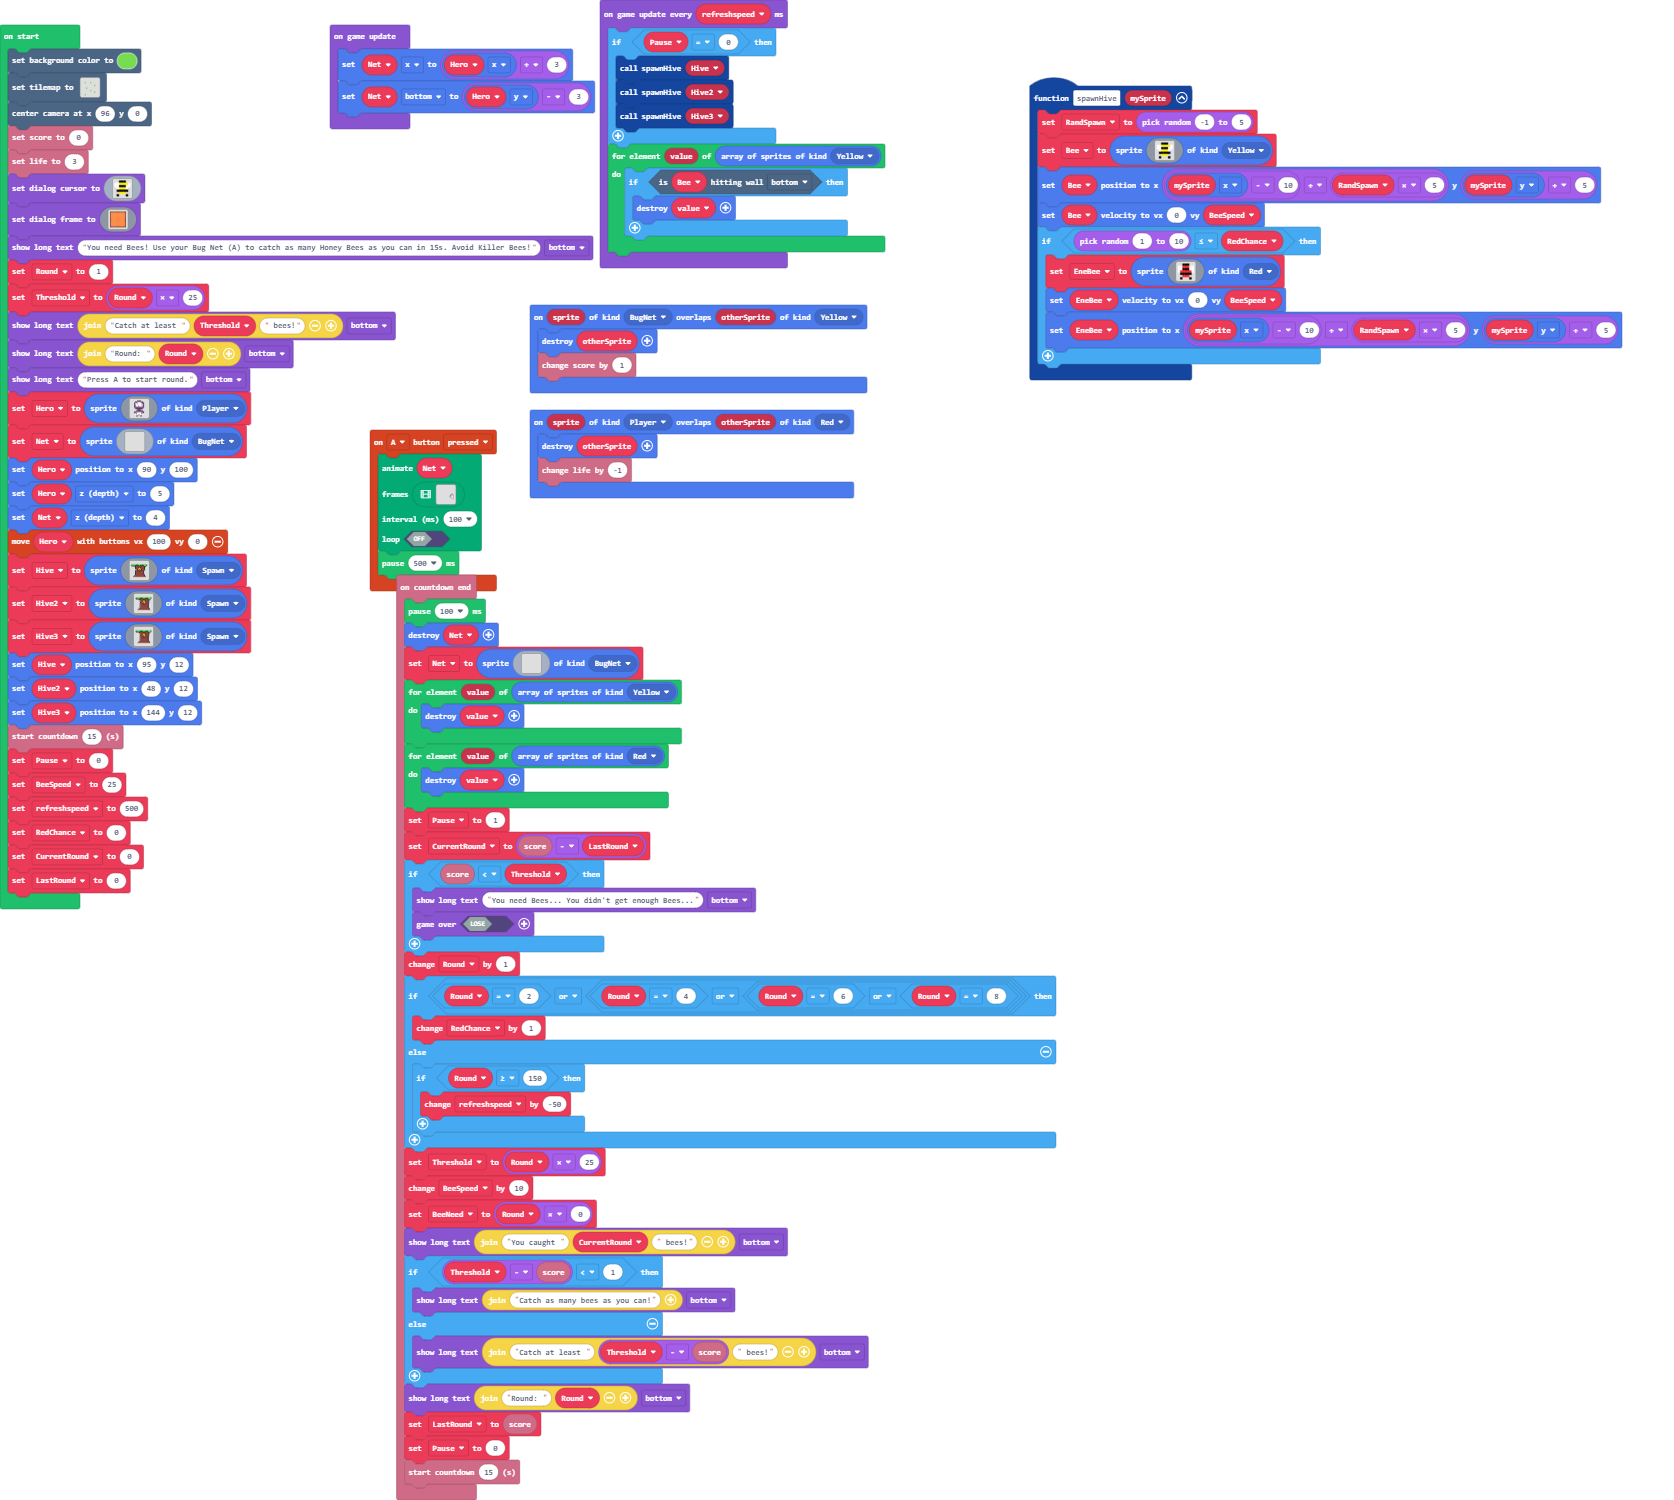
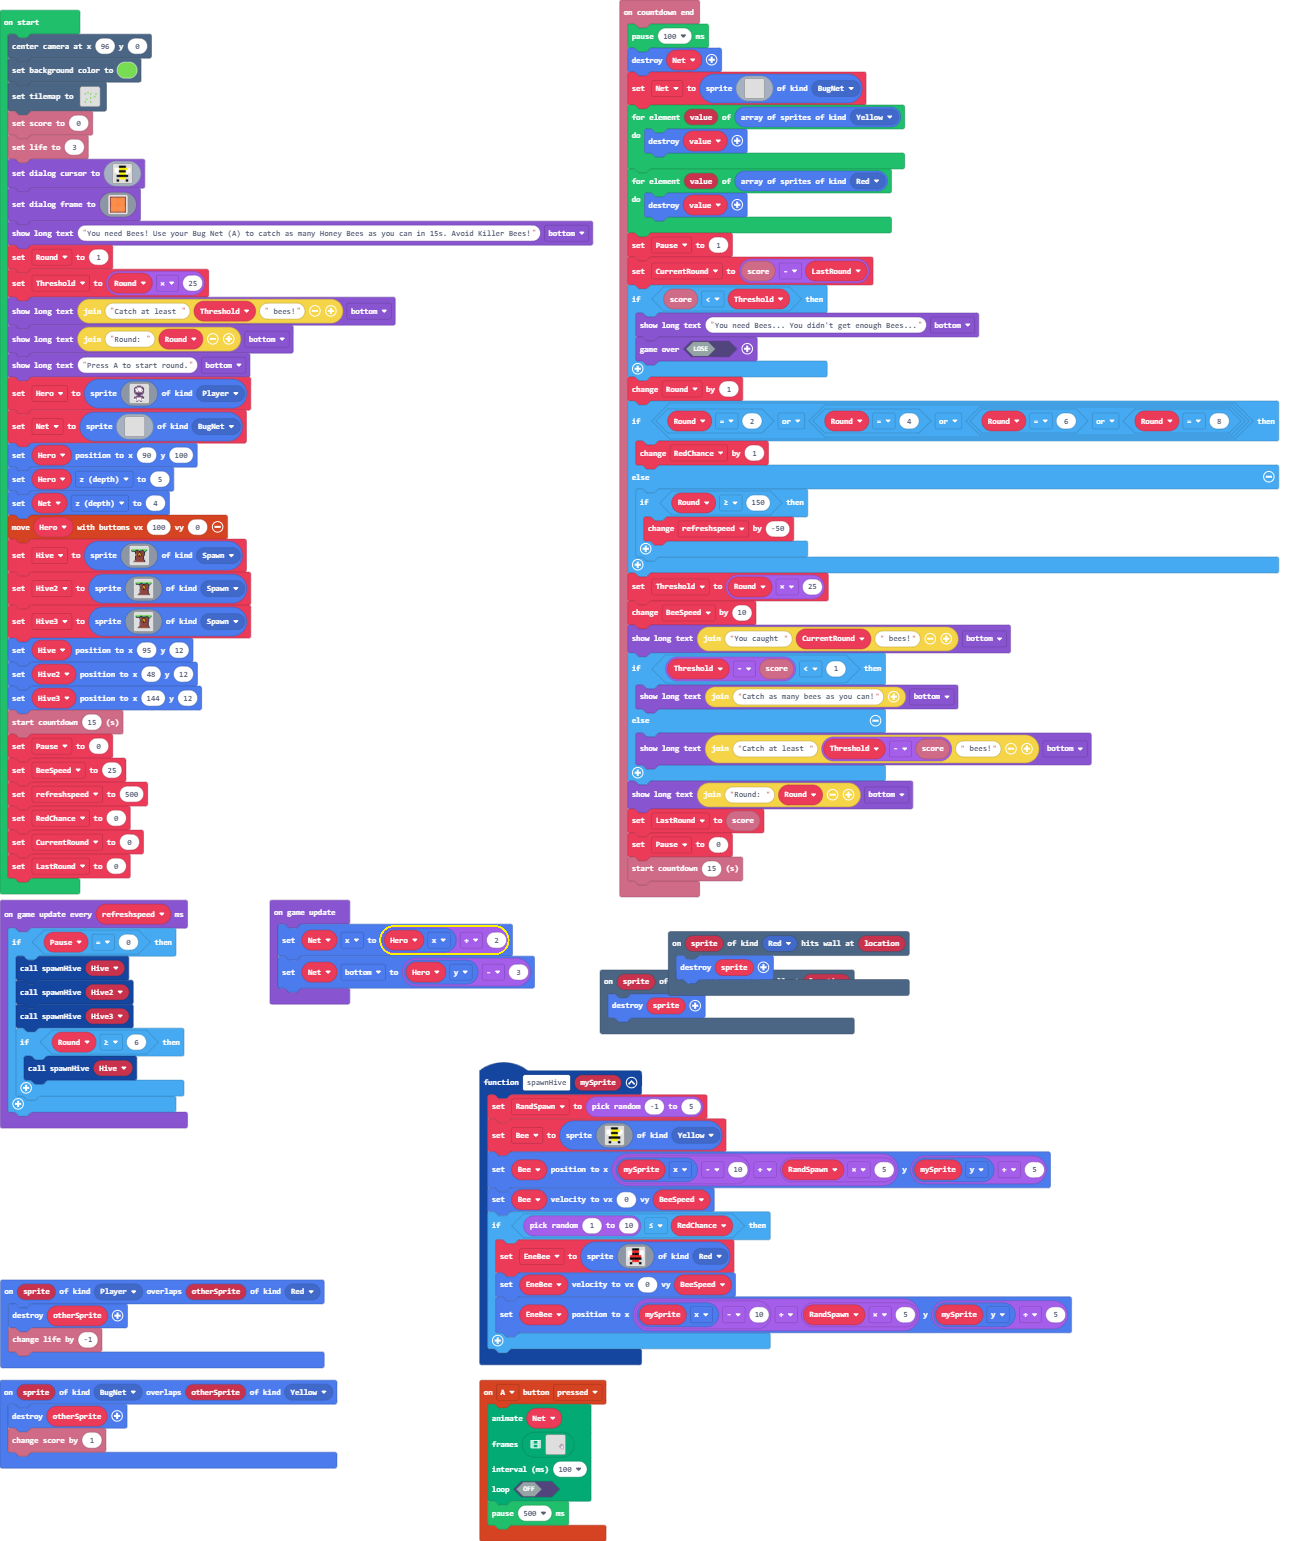
Update main.blocks, main.ts, tilemap.g.jres

diff --git a/main.ts b/main.ts
@@ -154,6 +154,9 @@ controller.A.onEvent(ControllerButtonEvent.Pressed, function () {
     )
     pause(500)
 })
+scene.onHitWall(SpriteKind.Red, function (sprite, location) {
+    sprite.destroy()
+})
 info.onCountdownEnd(function () {
     pause(100)
     Net.destroy()
@@ -199,7 +202,6 @@ info.onCountdownEnd(function () {
     }
     Threshold = Round * 25
     BeeSpeed += 10
-    BeeNeed = Round * 0
     game.showLongText("You caught " + CurrentRound + " bees!", DialogLayout.Bottom)
     if (Threshold - info.score() < 1) {
         game.showLongText("Catch as many bees as you can!", DialogLayout.Bottom)
@@ -219,7 +221,9 @@ sprites.onOverlap(SpriteKind.Player, SpriteKind.Red, function (sprite, otherSpri
     otherSprite.destroy()
     info.changeLifeBy(-1)
 })
-let BeeNeed = 0
+scene.onHitWall(SpriteKind.Yellow, function (sprite, location) {
+    sprite.destroy()
+})
 let EneBee: Sprite = null
 let Bee: Sprite = null
 let RandSpawn = 0
@@ -231,22 +235,19 @@ let Pause = 0
 let Net: Sprite = null
 let Threshold = 0
 let Round = 0
-scene.setBackgroundColor(7)
[1 lines of base64/hex data omitted]
-    2 2 2 2 2 2 2 2 2 2 2 2 
-    2 . . . . . . . . . . 2 
-    2 . . . . . . . . . . 2 
-    2 . . . . . . . . . . 2 
-    2 . . . . . . . . . . 2 
-    2 . . . . . . . . . . 2 
-    2 . . . . . . . . . . 2 
-    2 . . . . . . . . . . 2 
-    2 . . . . . . . . . . 2 
-    2 . . . . . . . . . . 2 
-    2 . . . . . . . . . . 2 
-    2 2 2 2 2 2 2 2 2 2 2 2 
-    `, [myTiles.transparency16,myTiles.tile1,myTiles.tile2], TileScale.Sixteen))
 scene.centerCameraAt(96, 0)
+scene.setBackgroundColor(7)
[1 lines of base64/hex data omitted]
+    2 2 2 2 2 2 2 2 2 2 2 2 
+    2 . . . . . . . . . . 2 
+    2 . . . . . . . . . . 2 
+    2 . . . . . . . . . . 2 
+    2 . . . . . . . . . . 2 
+    2 . . . . . . . . . . 2 
+    2 . . . . . . . . . . 2 
+    2 . . . . . . . . . . 2 
+    2 2 2 2 2 2 2 2 2 2 2 2 
+    `, [myTiles.transparency16,myTiles.tile1,myTiles.tile2,myTiles.tile3], TileScale.Sixteen))
 info.setScore(0)
 info.setLife(3)
 game.setDialogCursor(img`
@@ -418,7 +419,7 @@ RedChance = 0
 CurrentRound = 0
 LastRound = 0
 game.onUpdate(function () {
-    Net.x = Hero.x + 3
+    Net.x = Hero.x + 2
     Net.bottom = Hero.y - 3
 })
 game.onUpdateInterval(refreshspeed, function () {
@@ -426,10 +427,8 @@ game.onUpdateInterval(refreshspeed, function () {
         spawnHive(Hive)
         spawnHive(Hive2)
         spawnHive(Hive3)
-    }
-    for (let value of sprites.allOfKind(SpriteKind.Yellow)) {
-        if (Bee.isHittingTile(CollisionDirection.Bottom)) {
-            value.destroy()
+        if (Round >= 6) {
+            spawnHive(Hive)
         }
     }
 })
